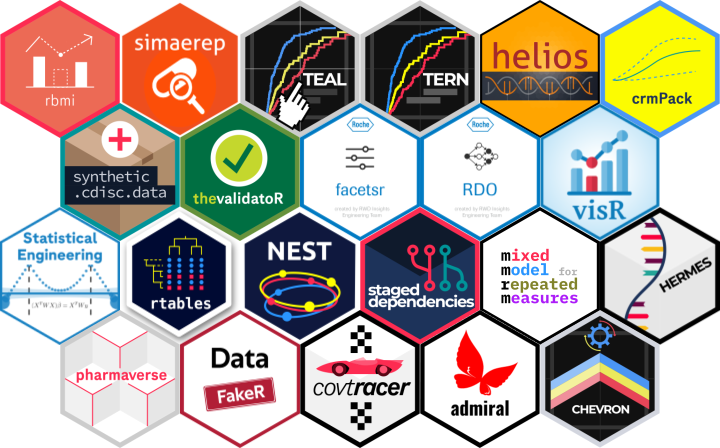
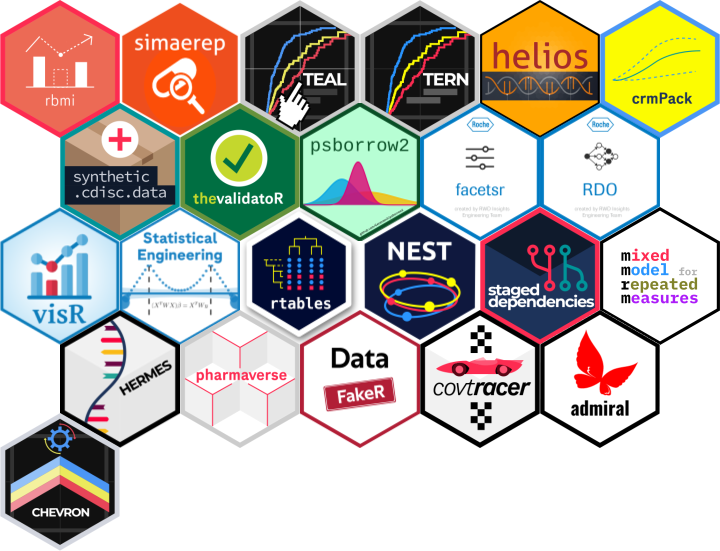
add psborrow2

diff --git a/README.md b/README.md
@@ -123,6 +123,16 @@ This project is not tracked by openpharma.github.io
 <a href="PNG/pharmaverse.png">pharmaverse.png</a>
 </td>
 <td>
+<img alt="Logo for psborrow2" src="thumbs/psborrow2.png" width="139" height="139"><br />psborrow2
+<br />
+<p style="color:grey">
+This project is not tracked by openpharma.github.io
+</p>
+<a href="PNG/psborrow2.png">psborrow2.png</a>
+</td>
+</tr>
+<tr>
+<td>
 <img alt="Logo for rbmi" src="thumbs/rbmi.png" width="139" height="139"><br /><a href="https://github.com/insightsengineering/rbmi">insightsengineering/rbmi</a>
 <br />
 <p>
@@ -130,8 +140,6 @@ Reference based multiple imputation R package
 </p>
 <a href="PNG/rbmi.png">rbmi.png</a>
 </td>
-</tr>
-<tr>
 <td>
 <img alt="Logo for RDO" src="thumbs/RDO.png" width="139" height="139"><br /><a href="https://github.com/openpharma/RDO">openpharma/RDO</a>
 <br />
@@ -148,6 +156,8 @@ Reporting tables with R
 </p>
 <a href="PNG/rtables.png">rtables.png</a>
 </td>
+</tr>
+<tr>
 <td>
 <img alt="Logo for simaerep" src="thumbs/simaerep.png" width="139" height="139"><br /><a href="https://github.com/openpharma/simaerep">openpharma/simaerep</a>
 <br />
@@ -157,8 +167,6 @@ detecting under-reporting sites.
 </p>
 <a href="PNG/simaerep.png">simaerep.png</a>
 </td>
-</tr>
-<tr>
 <td>
 <img alt="Logo for staged.dependencies" src="thumbs/staged.dependencies.png" width="139" height="139"><br /><a href="https://github.com/openpharma/staged.dependencies">openpharma/staged.dependencies</a>
 <br />
@@ -175,6 +183,8 @@ This project is not tracked by openpharma.github.io
 </p>
 <a href="PNG/StatisticalEngineering.png">StatisticalEngineering.png</a>
 </td>
+</tr>
+<tr>
 <td>
 <img alt="Logo for synthetic.cdisc.data" src="thumbs/synthetic.cdisc.data.png" width="139" height="139"><br /><a href="https://github.com/Roche/synthetic.cdisc.data">Roche/synthetic.cdisc.data</a>
 <br />
@@ -183,8 +193,6 @@ No description in github
 </p>
 <a href="PNG/synthetic.cdisc.data.png">synthetic.cdisc.data.png</a>
 </td>
-</tr>
-<tr>
 <td>
 <img alt="Logo for teal" src="thumbs/teal.png" width="139" height="139"><br />teal
 <br />
@@ -201,6 +209,8 @@ This project is not tracked by openpharma.github.io
 </p>
 <a href="PNG/tern.png">tern.png</a>
 </td>
+</tr>
+<tr>
 <td>
 <img alt="Logo for thevalidatoR" src="thumbs/thevalidatoR.png" width="139" height="139"><br /><a href="https://github.com/insightsengineering/thevalidatoR">insightsengineering/thevalidatoR</a>
 <br />
@@ -209,8 +219,6 @@ Github Action that generates R Package Validation documentation 🏁
 </p>
 <a href="PNG/thevalidatoR.png">thevalidatoR.png</a>
 </td>
-</tr>
-<tr>
 <td>
 <img alt="Logo for visR" src="thumbs/visR.png" width="139" height="139"><br /><a href="https://github.com/openpharma/visR">openpharma/visR</a>
 <br />
